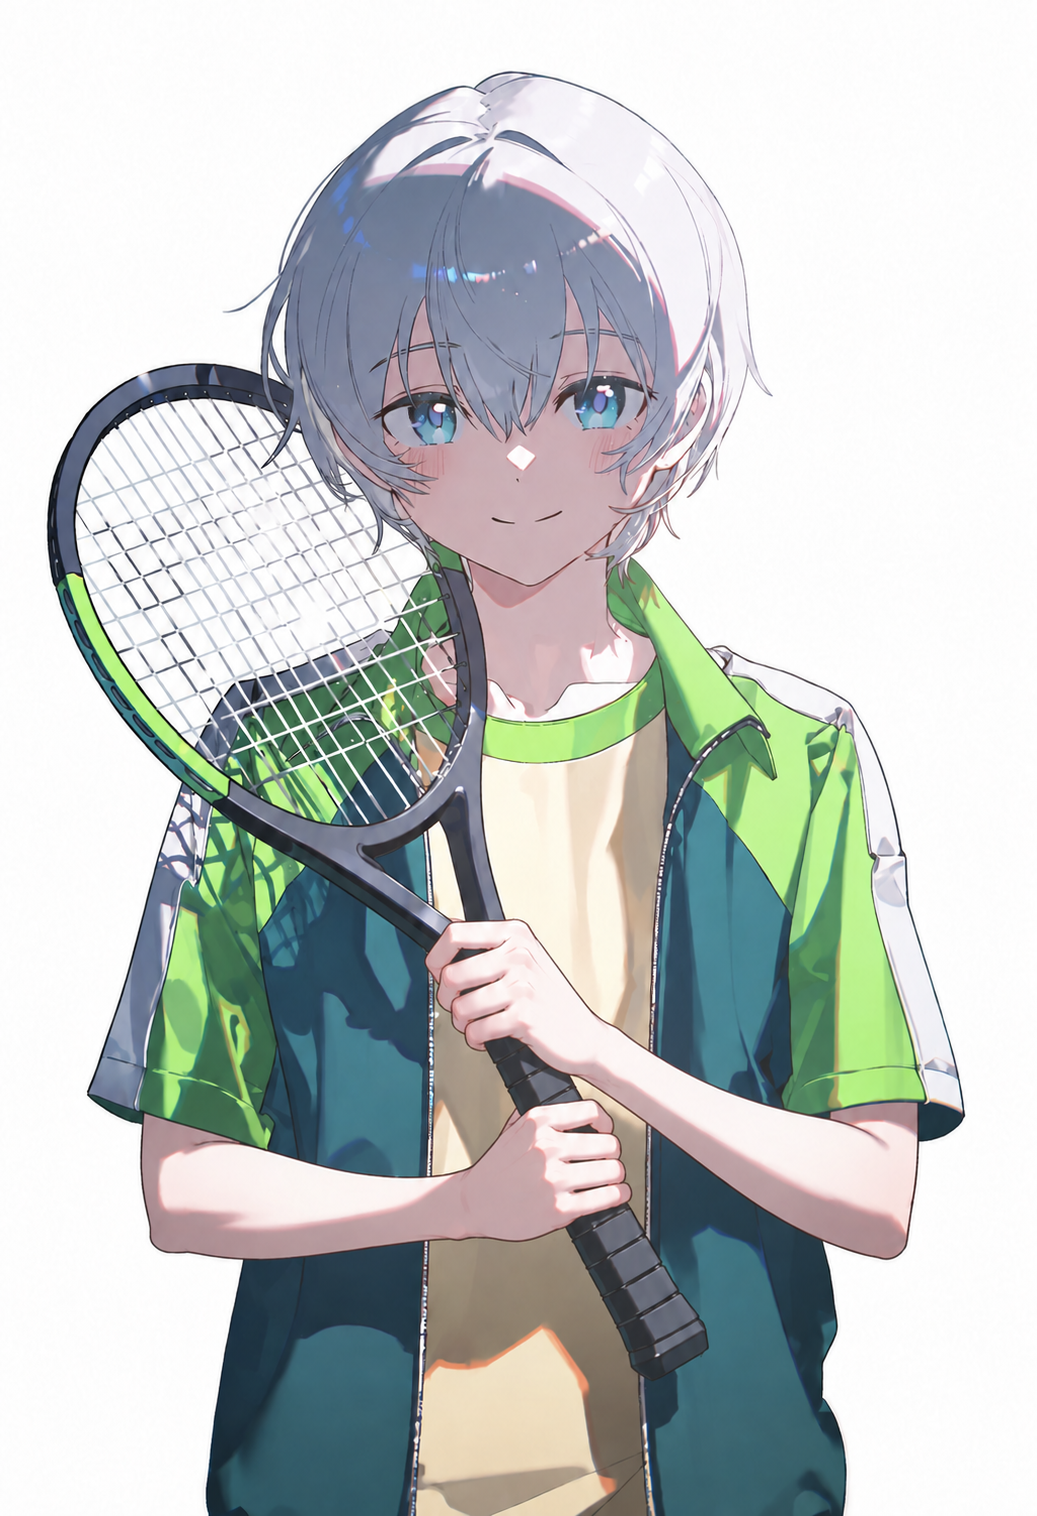
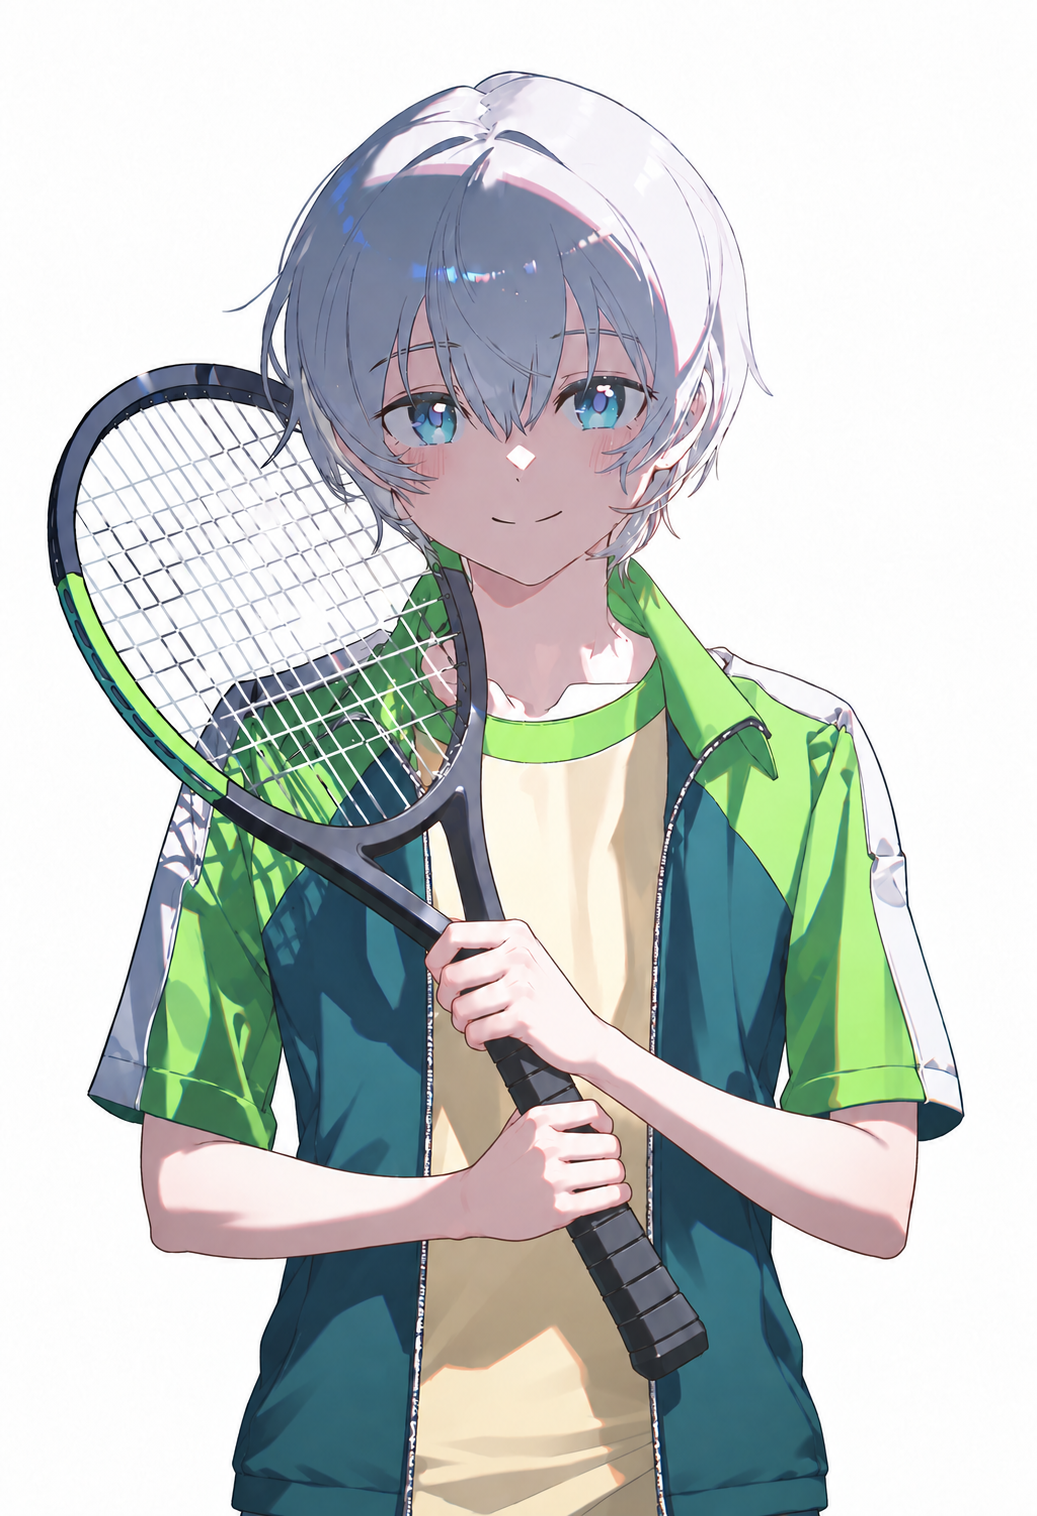
Update 户冢彩加 default portrait

diff --git a/images/portraits/oregairu/totsuka-saika/README.md b/images/portraits/oregairu/totsuka-saika/README.md
@@ -1,11 +1,18 @@
 # 户冢彩加 · 常规立绘
 
 - 当前文件：[default.png](default.png)。
-- 用户选定原图：`exec-41b6eb1d-ae34-44e2-9936-25070619a9fd.png`。
-- 尺寸：1037 × 1516；大小：1,735,441 字节。
[1 lines of base64/hex data omitted]
+- 用户选定原图：`totsuka-saika-waist-repaired.png`。
+- 尺寸：1037 × 1516；大小：1,731,278 字节。
[1 lines of base64/hex data omitted]
 - PNG 模型记录：未知。
 - 可读取的生成参数：seed 未知；steps 未知；scale 未知；cfg_rescale 未知；sampler 未知；noise_schedule 未知。
 - 原图字节及内嵌数据完整保留，没有裁切、缩放、抠图或重新编码。
 - 当前默认形象的运行时引用以状态栏 portraitsSB 为准；不随剧情着装自动切换。
 - 图片选定不代替真实 SillyTavern 与实际设备显示验收。
+
+## 本次选定版本
+
+- 适度收拢运动外套和内搭腰侧，保留男孩的原有体型与持网球拍姿势。
+- 本图经 Codex 图像编辑生成并由用户确认；本次上传未再次裁剪、缩放或重绘。
+- 当前目录固定使用 default.png，旧版已被替换，不另保留旧图文件；Git 历史可回溯。
+- 编辑成稿未携带可读取的 NovelAI 参数，旧版参数不能作为当前修复版的复现参数。
